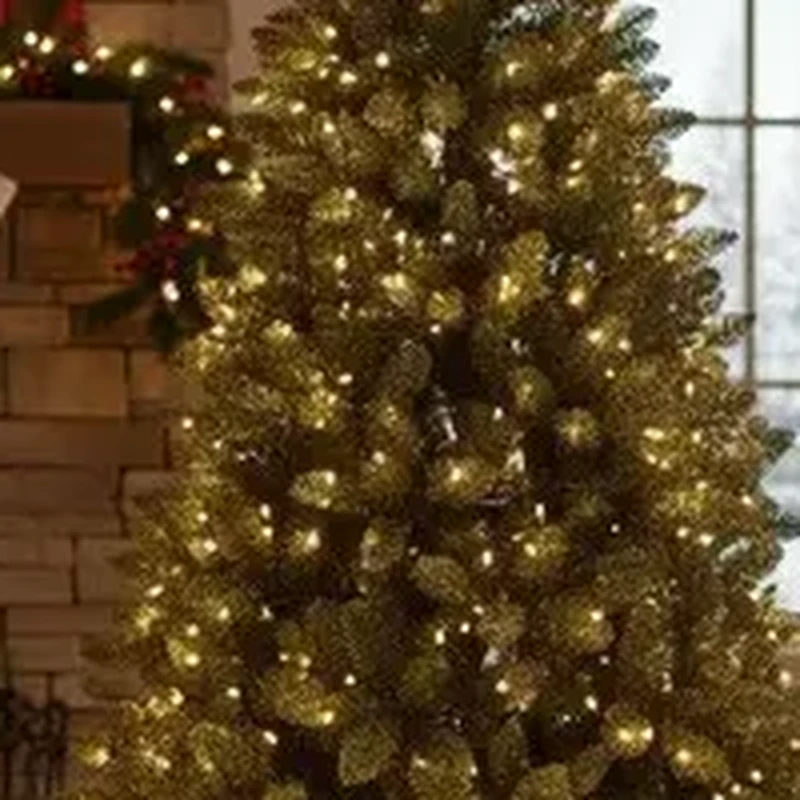
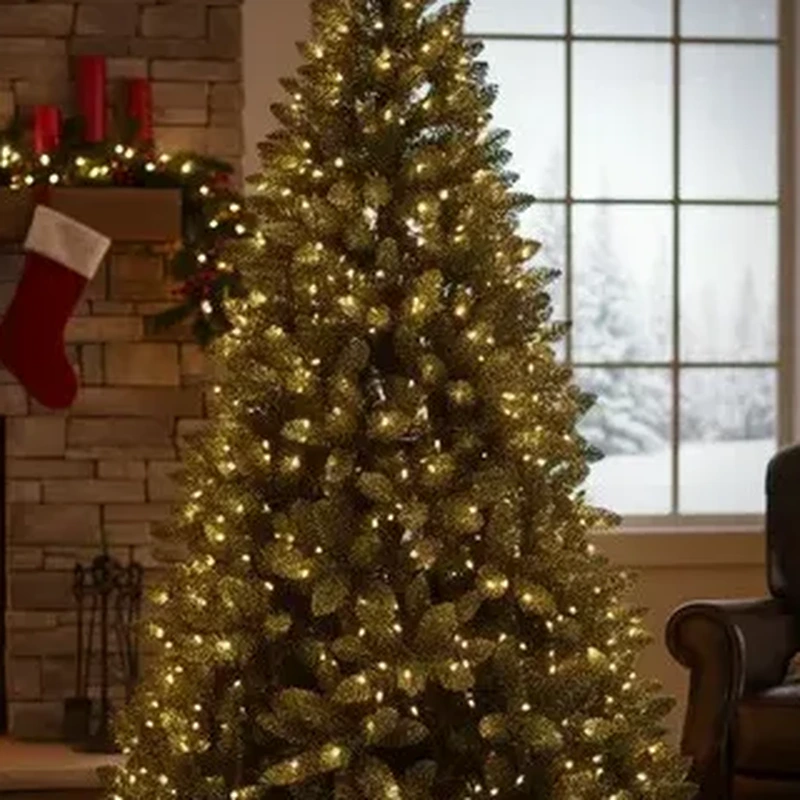
Add files via upload

diff --git a/index.html b/index.html
@@ -34,14 +34,22 @@ h2{font-size:clamp(36px,4.6vw,56px)}
 .btn svg{width:20px;height:20px;flex:none}
 
 /* topo */
-.top{position:sticky;top:0;z-index:20;background:rgba(13,37,27,.88);backdrop-filter:blur(12px);border-bottom:1px solid rgba(230,199,122,.18)}
-.top .wrap{display:flex;align-items:center;justify-content:space-between;gap:16px;min-height:76px;flex-wrap:wrap}
-.logo{display:flex;align-items:center;gap:12px;text-decoration:none;color:var(--ink)}
-.logo b{font-family:'Cormorant Garamond',serif;font-size:27px;font-weight:700}
-.nav{display:flex;align-items:center;gap:28px;flex-wrap:wrap}
-.nav a{color:var(--mute);text-decoration:none;font-size:15px}
-.nav a:hover{color:var(--ink)}
-.nav .btn{min-height:44px;padding:0 22px;font-size:15px;color:#1A1408}
+.announce{background:#7A1A17;color:#F6E3B4;font-size:14px;text-align:center;padding:9px 16px;letter-spacing:.02em}
+.announce b{color:#fff;font-weight:600}
+.announce .sep{color:var(--gold);margin:0 10px}
+.top{position:sticky;top:0;z-index:20;background:rgba(10,30,22,.92);backdrop-filter:blur(14px);box-shadow:0 1px 0 rgba(230,199,122,.22),0 10px 30px rgba(0,0,0,.25)}
+.top .wrap{display:grid;grid-template-columns:1fr auto 1fr;align-items:center;gap:20px;min-height:84px}
+.logo{display:flex;align-items:center;gap:14px;text-decoration:none;color:var(--ink);justify-self:start}
+.emblem{width:46px;height:46px;flex:none;border-radius:50%;display:grid;place-items:center;background:radial-gradient(circle at 35% 30%,#1E4A36,#0B2018);border:1px solid var(--gold);box-shadow:0 0 0 4px rgba(230,199,122,.1),0 0 24px rgba(230,199,122,.25)}
+.emblem svg{width:26px;height:26px}
+.logo span{display:flex;flex-direction:column;line-height:1}
+.logo b{font-family:'Cormorant Garamond',serif;font-size:28px;font-weight:700;letter-spacing:.01em;white-space:nowrap}
+.logo small{font-size:12px;color:var(--gold);margin-top:5px;letter-spacing:.06em}
+.nav{display:flex;align-items:center;gap:36px}
+.nav a{color:var(--mute);text-decoration:none;font-size:15px;position:relative;padding:6px 0}
+.nav a::after{content:"";position:absolute;left:0;right:0;bottom:0;height:1px;background:var(--gold);transform:scaleX(0);transition:transform .25s}
+.nav a:hover{color:var(--ink)}.nav a:hover::after{transform:scaleX(1)}
+.top .cta{justify-self:end;min-height:46px;padding:0 24px;font-size:15px}
 
 /* hero */
 .hero{position:relative;overflow:hidden;background:radial-gradient(60% 70% at 74% 48%,rgba(222,165,64,.30),transparent 70%),radial-gradient(40% 50% at 10% 90%,rgba(142,31,28,.25),transparent 70%)}
@@ -87,12 +95,18 @@ h2{font-size:clamp(36px,4.6vw,56px)}
 .feats span{color:var(--soft);font-size:16px}
 
 /* ambiente */
-.mood{position:relative;overflow:hidden;text-align:center}
-.mood .bg{position:absolute;inset:-60px;background:url(arvore.webp) center/cover;filter:blur(22px) brightness(.42) saturate(1.15);transform:scale(1.1)}
-.mood .wrap{position:relative;display:grid;justify-items:center;gap:48px}
-.mood blockquote{margin:0;font:500 clamp(36px,5vw,64px)/1.08 'Cormorant Garamond',serif;max-width:900px;text-wrap:balance}
+.mood{position:relative;overflow:hidden;text-align:center;background:radial-gradient(55% 65% at 50% 60%,rgba(222,165,64,.22),transparent 70%),linear-gradient(180deg,#0A1E16,#0D251B 60%,#0A1E16);padding-top:0}
+.orn{display:block;width:100%;height:clamp(170px,22.5vw,300px)}
+.orn .sw{transform-origin:top center;animation:sw 6s ease-in-out infinite}
+@keyframes sw{0%,100%{transform:rotate(-1.6deg)}50%{transform:rotate(1.6deg)}}
+.mood .wrap{position:relative;display:grid;justify-items:center;gap:30px;padding-top:24px}
+.mood blockquote{margin:0;font:500 clamp(38px,5.2vw,68px)/1.06 'Cormorant Garamond',serif;max-width:920px;text-wrap:balance}
 .mood blockquote em{color:var(--gold)}
-.mood img{width:100%;max-width:880px;aspect-ratio:16/7;object-fit:cover;border-radius:24px;border:1px solid rgba(230,199,122,.4);box-shadow:0 30px 70px rgba(0,0,0,.5)}
+.divider{display:flex;align-items:center;gap:16px;color:var(--gold)}
+.divider::before,.divider::after{content:"";width:clamp(48px,10vw,120px);height:1px;background:linear-gradient(90deg,transparent,var(--gold))}
+.divider::after{background:linear-gradient(90deg,var(--gold),transparent)}
+.divider svg{width:18px;height:18px}
+.mood .sig{font-size:15px;color:var(--mute);margin:0}
 
 /* compra */
 .buy{display:grid;grid-template-columns:minmax(0,1.1fr) minmax(0,.9fr);gap:clamp(40px,6vw,80px);align-items:start}
@@ -132,14 +146,19 @@ footer b{font:700 22px 'Cormorant Garamond',serif;color:var(--ink)}
 @media(max-width:900px){
   .hero .wrap,.split,.buy{grid-template-columns:minmax(0,1fr)}
   .hero .frame{max-width:400px}
-  .nav a:not(.btn){display:none}
+  .nav{display:none}
+  .top .wrap{grid-template-columns:1fr auto;min-height:72px}
   .panel{position:static}
   .mbar{display:flex;position:fixed;left:0;right:0;bottom:0;z-index:30;align-items:center;justify-content:space-between;gap:16px;padding:12px max(5vw,16px) calc(12px + env(safe-area-inset-bottom));background:rgba(13,37,27,.96);backdrop-filter:blur(10px);border-top:1px solid rgba(230,199,122,.3)}
   .mbar b{font:700 26px 'Cormorant Garamond',serif}
   .mbar .btn{min-height:48px;padding:0 24px}
   footer{padding-bottom:100px}
 }
+@media(min-width:601px){.cta .long{display:inline}}
 @media(max-width:600px){
+  .announce{font-size:13px}.announce .hide-s{display:none}
+  .logo b{font-size:22px}.cta .long{display:none}.logo small{display:none}.emblem{width:40px;height:40px}.emblem svg{width:22px;height:22px}
+  .top .cta{min-height:42px;padding:0 18px;font-size:14px}.top .cta svg{display:none}
   .tag{left:-6px;bottom:24px}
   .ctas .btn{width:100%}
   .photos{padding:0 12px 24px 0}
@@ -150,17 +169,19 @@ footer b{font:700 22px 'Cormorant Garamond',serif;color:var(--ink)}
 </head>
 <body>
 
+<div class="announce"><b>Entrega em até 7 dias</b><span class="hide-s"><span class="sep" aria-hidden="true">✦</span>Coleção de Natal 2026</span></div>
 <header class="top">
   <div class="wrap">
-    <a class="logo" href="#topo">
-      <svg aria-hidden="true" width="30" height="30" viewBox="0 0 24 24" fill="#E6C77A"><path d="M12 1.5l2.6 5.6 6.1.7-4.6 4.1 1.3 6L12 14.9l-5.4 3 1.3-6-4.6-4.1 6.1-.7z"/></svg>
-      <b>Árvore Imperial</b>
+    <a class="logo" href="#topo" aria-label="Árvore Imperial, início">
+      <span class="emblem" aria-hidden="true"><svg viewBox="0 0 24 24"><path d="M12 2.2l1.1 2.3 2.5.3-1.9 1.7.5 2.5L12 7.8 9.8 9l.5-2.5-1.9-1.7 2.5-.3z" fill="#F3DEA2"/><path d="M12 9.5l3.6 4.6h-2.1l3.4 4.4H7.1l3.4-4.4H8.4z" fill="#E6C77A"/><rect x="11" y="18.5" width="2" height="2.6" rx=".4" fill="#B08A35"/></svg></span>
+      <span><b>Árvore Imperial</b><small>Iluminada · Natal 2026</small></span>
     </a>
     <nav class="nav" aria-label="Seções">
+      <a href="#topo">Início</a>
       <a href="#detalhes">Detalhes</a>
       <a href="#comprar">Comprar</a>
-      <a class="btn btn-gold" href="#comprar">Comprar agora</a>
     </nav>
+    <a class="btn btn-gold cta" href="#comprar"><svg viewBox="0 0 24 24" fill="none" stroke="currentColor" stroke-width="2" stroke-linecap="round" stroke-linejoin="round" aria-hidden="true"><path d="M6 6h15l-1.5 9h-12z"/><path d="M6 6L5 3H2"/><circle cx="9" cy="20" r="1.5"/><circle cx="18" cy="20" r="1.5"/></svg>Comprar<span class="long">&nbsp;agora</span></a>
   </div>
 </header>
 
@@ -216,10 +237,12 @@ footer b{font:700 22px 'Cormorant Garamond',serif;color:var(--ink)}
 </section>
 
 <section class="band mood">
-  <div class="bg" aria-hidden="true"></div>
+  <div class="lights" id="lights2" aria-hidden="true"></div>
+  <svg class="orn" id="orn" viewBox="0 0 1200 270" preserveAspectRatio="xMidYMin slice" aria-hidden="true"></svg>
   <div class="wrap">
     <blockquote>Ela não só decora a sala. <em>Ela vira o centro do seu Natal.</em></blockquote>
-    <img src="presentes.webp" alt="Presentes ao pé da árvore iluminada" width="960" height="420">
+    <div class="divider" aria-hidden="true"><svg viewBox="0 0 24 24" fill="currentColor"><path d="M12 1.5l2.6 5.6 6.1.7-4.6 4.1 1.3 6L12 14.9l-5.4 3 1.3-6-4.6-4.1 6.1-.7z"/></svg></div>
+    <p class="sig">Árvore Imperial Iluminada · Natal 2026</p>
   </div>
 </section>
 
@@ -230,7 +253,6 @@ footer b{font:700 22px 'Cormorant Garamond',serif;color:var(--ink)}
       <div class="thumbs" role="group" aria-label="Fotos do produto">
         <button type="button" aria-pressed="true" data-src="arvore.webp" aria-label="Foto 1: árvore inteira"><img src="arvore.webp" alt=""></button>
         <button type="button" aria-pressed="false" data-src="detalhe.webp" aria-label="Foto 2: detalhe dos galhos"><img src="detalhe.webp" alt=""></button>
-        <button type="button" aria-pressed="false" data-src="presentes.webp" aria-label="Foto 3: base com presentes"><img src="presentes.webp" alt=""></button>
       </div>
     </div>
     <div class="panel">
@@ -288,7 +310,22 @@ footer b{font:700 22px 'Cormorant Garamond',serif;color:var(--ink)}
 
   const L = document.getElementById('lights');
   const pts = [[6,12,6,0],[14,40,4,1.1],[22,8,5,2.2],[31,70,4,.6],[44,14,6,1.7],[50,86,5,2.8],[58,6,4,.3],[63,30,7,1.4],[68,64,5,2.5],[74,12,4,.9],[80,48,6,2],[85,82,4,1.2],[89,24,5,.4],[94,58,6,2.6],[97,8,4,1.8],[38,92,5,.7],[3,64,5,2.3],[47,50,3,1.5],[26,30,4,3],[9,88,5,.2]];
-  L.innerHTML = pts.map(([x,y,s,d]) => `<i style="left:${x}%;top:${y}%;width:${s}px;height:${s}px;animation-delay:${d}s"></i>`).join('');
+  const dots = pts.map(([x,y,s,d]) => `<i style="left:${x}%;top:${y}%;width:${s}px;height:${s}px;animation-delay:${d}s"></i>`).join('');
+  L.innerHTML = dots;
+  document.getElementById('lights2').innerHTML = dots;
+
+  const orns = [[70,60,22,'g'],[190,120,30,'r'],[320,80,20,'i'],[450,150,34,'g'],[600,95,26,'r'],[750,160,32,'g'],[880,70,20,'i'],[1010,130,30,'r'],[1130,85,24,'g']];
+  const grad = {g:'url(#og)', r:'url(#or)', i:'url(#oi)'};
+  document.getElementById('orn').innerHTML = `<defs>
+    <radialGradient id="og" cx="35%" cy="30%" r="75%"><stop offset="0" stop-color="#FFF1C4"/><stop offset=".45" stop-color="#E6C77A"/><stop offset="1" stop-color="#8A6420"/></radialGradient>
+    <radialGradient id="or" cx="35%" cy="30%" r="75%"><stop offset="0" stop-color="#F08A7E"/><stop offset=".45" stop-color="#B3261E"/><stop offset="1" stop-color="#5A0F0C"/></radialGradient>
+    <radialGradient id="oi" cx="35%" cy="30%" r="75%"><stop offset="0" stop-color="#FFFFFF"/><stop offset=".5" stop-color="#EDE4D0"/><stop offset="1" stop-color="#9C927E"/></radialGradient>
+  </defs>` + orns.map(([x,len,r,c],k) => `<g class="sw" style="animation-delay:${-k*0.7}s;transform-box:view-box;transform-origin:${x}px 0">
+    <line x1="${x}" y1="0" x2="${x}" y2="${len}" stroke="#E6C77A" stroke-opacity=".55" stroke-width="1.2"/>
+    <rect x="${x-r*0.28}" y="${len}" width="${r*0.56}" height="${r*0.38}" rx="2" fill="#C9A24B"/>
+    <circle cx="${x}" cy="${len + r*0.38 + r}" r="${r}" fill="${grad[c]}"/>
+    <ellipse cx="${x - r*0.35}" cy="${len + r*0.38 + r*0.6}" rx="${r*0.22}" ry="${r*0.14}" fill="#fff" fill-opacity=".55" transform="rotate(-30 ${x - r*0.35} ${len + r*0.38 + r*0.6})"/>
+  </g>`).join('');
 
   const words = ['Árvore Imperial','Iluminada','PVC de luxo','Estilo europeu','Entrega em até 7 dias','Natal 2026'];
   const run = words.map(w => `<span>${w} <span aria-hidden="true">✦</span></span>`).join('');
